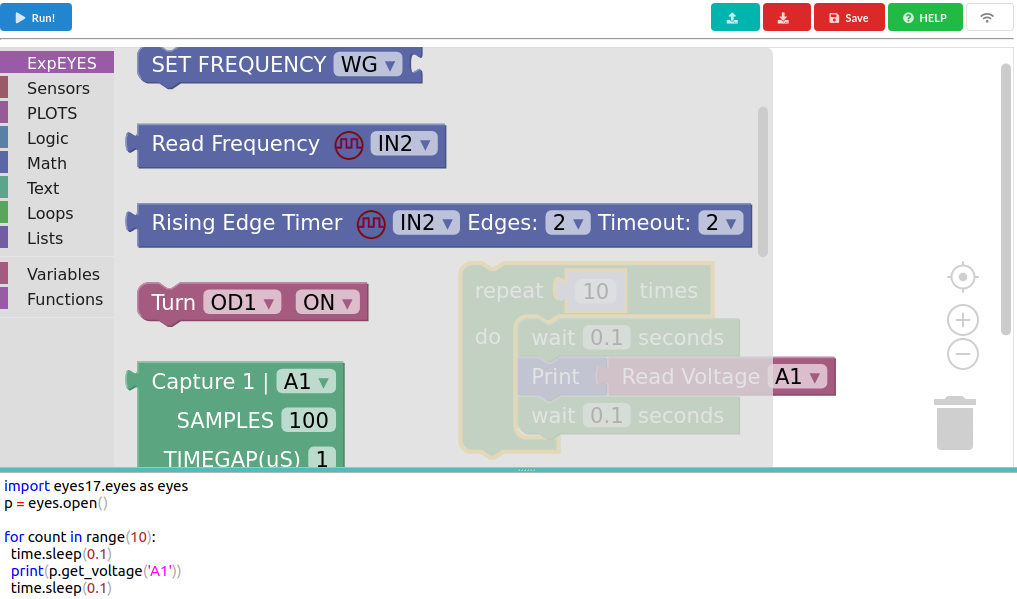
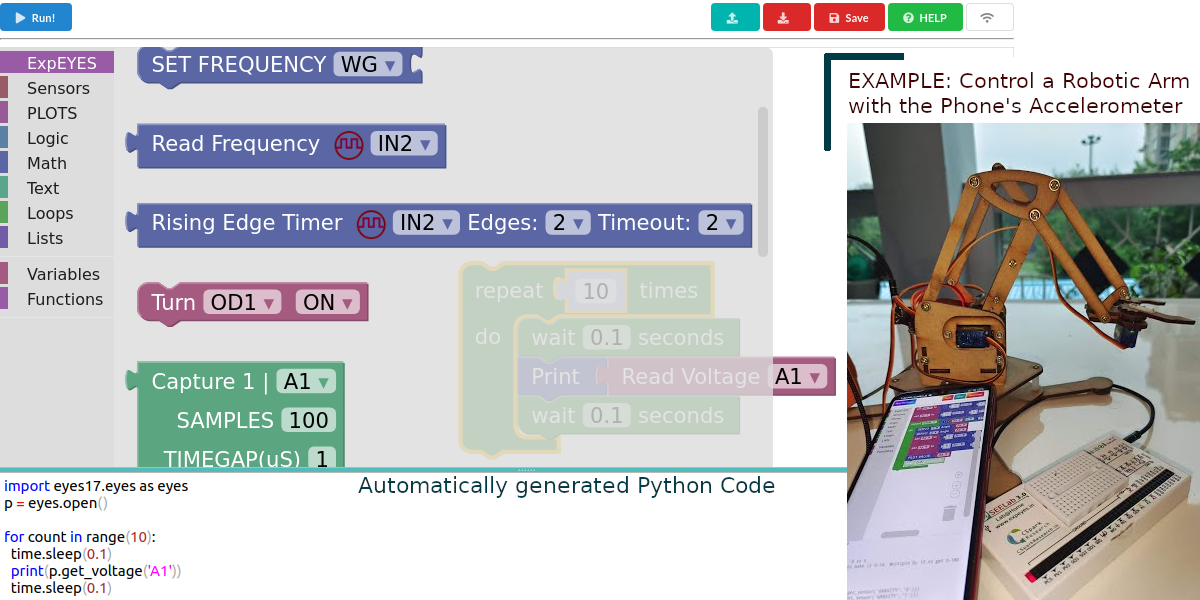
add youtube video to seelab page

diff --git a/assets/js/mainsemantic.js b/assets/js/mainsemantic.js
@@ -107,6 +107,7 @@ for (var i = 0; i < youtube.length; i++) {
  
     // thumbnail image source.
     var source = "https://img.youtube.com/vi/"+ youtube[i].dataset.embed +"/sddefault.jpg"; 
+    if(youtube[i].dataset.cover.length>2)source = youtube[i].dataset.cover;
  
     // Load the image asynchronously
     var image = new Image();

diff --git a/_includes/youtube.html b/_includes/youtube.html
@@ -6,6 +6,6 @@
 </div>
 {% endcomment %}
 
-<div class="youtube" data-embed="{{include.id}}">  
+<div class="youtube" data-embed="{{include.id}}" data-cover="{{include.cover}}">  
     <div class="play-button"></div>      
 </div>

diff --git a/assets/css/product.css b/assets/css/product.css
@@ -263,7 +263,7 @@
 }
 .youtube img {
     width: 100%;
-    top: -16.84%;
+    top: 0%;
     left: 0;
     opacity: 0.7;
 }

diff --git a/seelab3.md b/seelab3.md
@@ -16,6 +16,8 @@ toctext: |
 
 {% include install.html product="ExpEYES17"  %}
 
+
+
 {% include imagecard.html data=site.data.seelab3.features %}
 
 <br>
@@ -37,8 +39,10 @@ ranging from the Oscilloscope and Data loggers , to a Graphical programming inte
 The drag and drop programming utility is available both on Desktop as well as android. While on Android it generates the corresponding Javascript code which can be separately
 edited and executed, the desktop app is Python focused, and generates Python code which can be copied and executed in the IDE.
 
-![](/assets/images/seelab3/blockdesktop.png){:class="ui image fluid"}
 
+Watch the Video !
+
+{% include youtube.html id="SBjrNLBqGoE" cover="/assets/images/seelab3/blockdesktop.png" %}
 
 Some featured examples that let you create your own programs without writing lines of code. For advanced users, the generated code in either javascript
 or Python can be modified in a separate editor.
